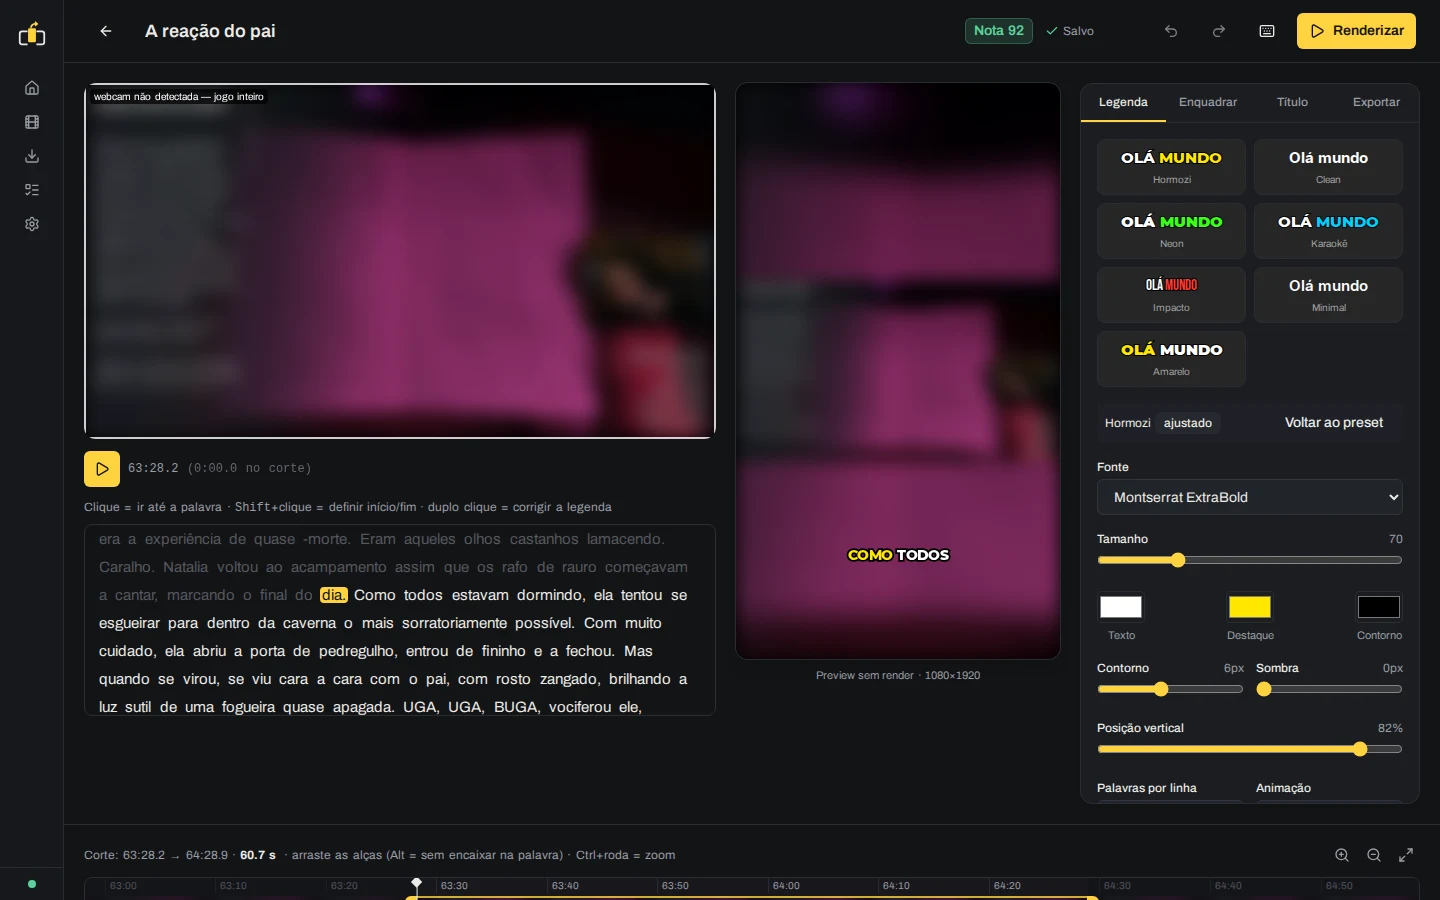
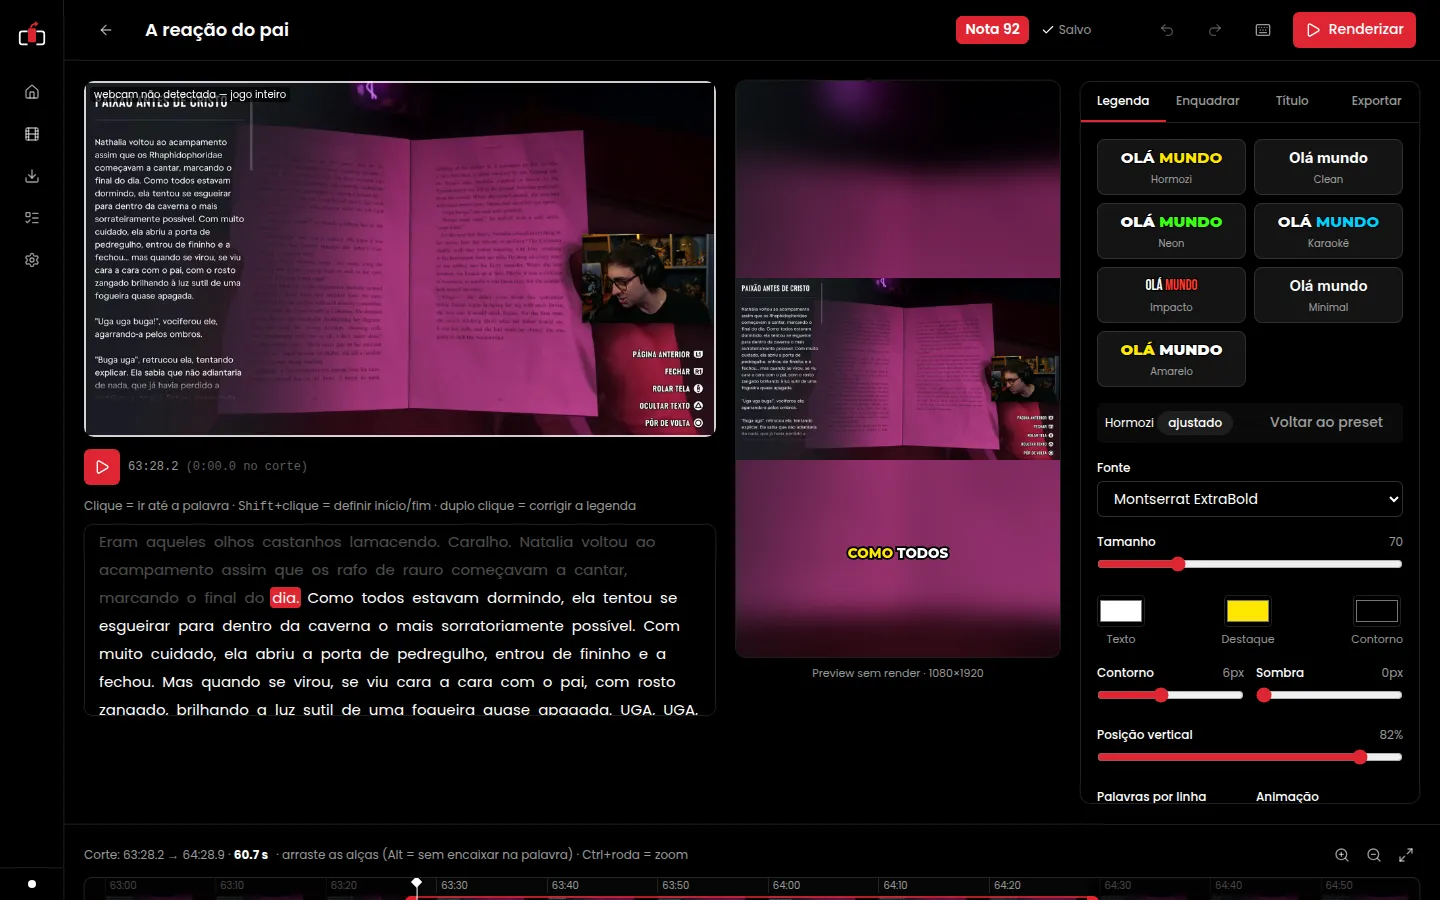
docs: refresh README screenshots for the new design
Retake all screenshots with the black/white/red UI and add one of the
"Render all" window showing the new template covers.

diff --git a/maquina-de-cortes/README.en.md b/maquina-de-cortes/README.en.md
@@ -317,6 +317,8 @@ The app shows the **estimated time** before starting. Click **Analisar** (Analyz
 
 **7. Render.** Click **Renderizar** (Render) on a clip or **Renderizar todos** (Render all). Then use **Baixar** (Download) or **Abrir pasta** (Open folder) to get the MP4s.
 
+![Render all window with the templates](docs/img/renderizar-todos.webp)
+
 **8. Posting pack.** Click **Pacote para postar** (Posting pack): the AI writes a **title, caption and hashtags** for TikTok, Reels and Shorts and picks the **cover** for each clip (the sharpest frame with a face, in a clean version and one with the title). On each clip, **Postar** (Post) shows the texts (editable) with a **Copiar** (Copy) button per platform.
 
 **9. Export all (.zip).** **Exportar tudo (.zip)** downloads the MP4s + the covers + `textos.csv` (opens in Excel or Google Sheets) + `textos.txt` (for copy and paste).

diff --git a/maquina-de-cortes/README.md b/maquina-de-cortes/README.md
@@ -311,6 +311,8 @@ O app mostra o **tempo estimado** antes de começar. Clique em **Analisar**.
 
 **7. Renderize.** Clique em **Renderizar** num corte ou em **Renderizar todos**. Depois use **Baixar** ou **Abrir pasta** para pegar os MP4.
 
+![Janela Renderizar todos com os templates](docs/img/renderizar-todos.webp)
+
 **8. Pacote para postar.** Clique em **Pacote para postar**: a IA escreve **título, legenda e hashtags** para TikTok, Reels e Shorts e escolhe a **capa** de cada corte (o quadro mais nítido com rosto, numa versão limpa e outra com o título). Em cada corte, **Postar** mostra os textos (dá para editar) com um botão **Copiar** por plataforma.
 
 **9. Exportar tudo (.zip).** Baixa os MP4 + as capas + `textos.csv` (abre no Excel ou Planilhas Google) + `textos.txt` (para copiar e colar).
